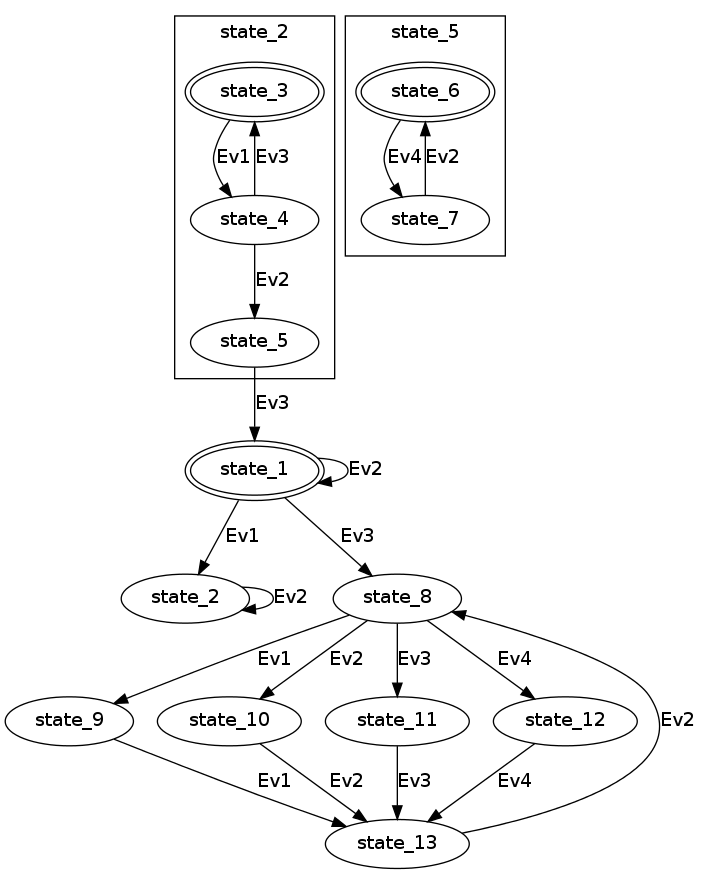
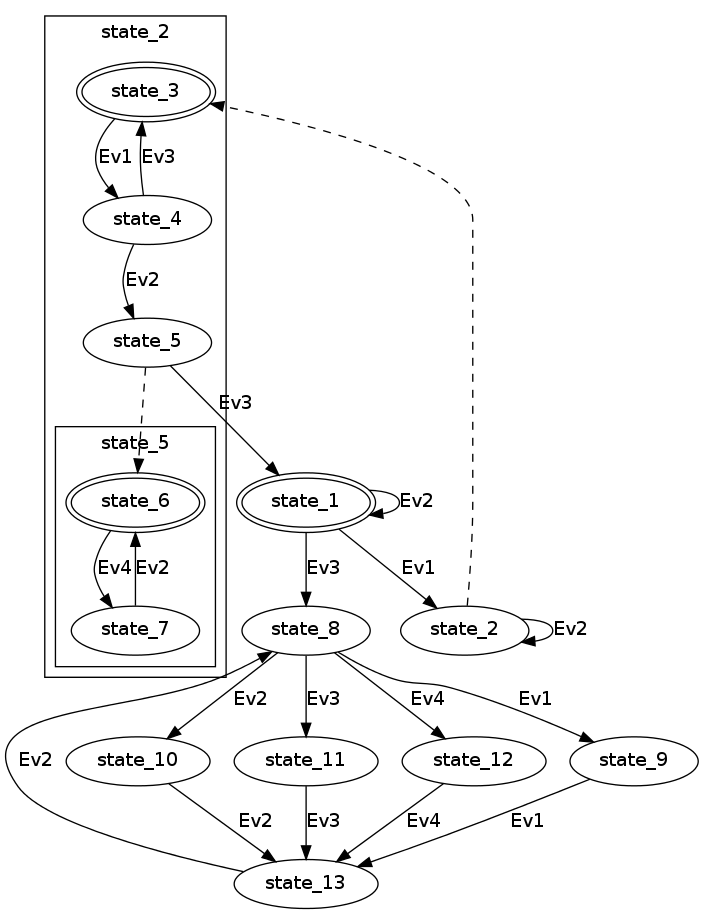
Update web page

diff --git a/www/test.cpp b/www/test.cpp
@@ -18,8 +18,8 @@ struct state_1; // definice stavu
 struct state_2; // definice stavu
 struct state_3; // definice stavu
 struct state_4; // definice stavu
-struct EvA : sc::event< EvA > {};//stisteno A
-struct EvN : sc::event< EvN > {};//stisteno N
+struct EvYes : sc::event< EvYes > {};//stisteno A
+struct EvNo : sc::event< EvNo > {};//stisteno N
 struct EvTimer : sc::event< EvTimer > {};//vyprsel cas
 
 struct DU : sc::state_machine< DU, state_1 > {};//Nastaveni inicializacniho stavu
@@ -39,8 +39,8 @@ struct state_1 : sc::simple_state< state_1, DU> // stav
     state_1() { cout<<"Chcete zformatovat vas disk (a/n) ? \n";}//FSM_Entry
     ~state_1() {}//FSM_Exit
     typedef mpl::list< // reakce na udalosti
-        sc::transition< EvA, state_4 >,
-        sc::transition< EvN, state_2 > > reactions;
+        sc::transition< EvYes, state_4 >,
+        sc::transition< EvNo, state_2 > > reactions;
 };
 struct state_2 : sc::simple_state< state_2, DU >
 {
@@ -81,7 +81,7 @@ struct state_3 : sc::simple_state< state_3, DU >
     }
     ~state_3() {}
     typedef mpl::list<
-        sc::transition< EvN, state_1 >,
+        sc::transition< EvNo, state_1 >,
         sc::transition< EvTimer, state_4 > > reactions;
 };
 struct state_4 : sc::simple_state< state_4, DU >
@@ -111,8 +111,8 @@ void *nacitani (void * ptr)
     while(1)
     {
          cin >> s;
-        if (s == "n") Zm.process_event (EvN());
-        if (s == "a") Zm.process_event (EvA());
+        if (s == "n") Zm.process_event (EvNo());
+        if (s == "a") Zm.process_event (EvYes());
         if (s == "exit") break;
     }
     return NULL;
